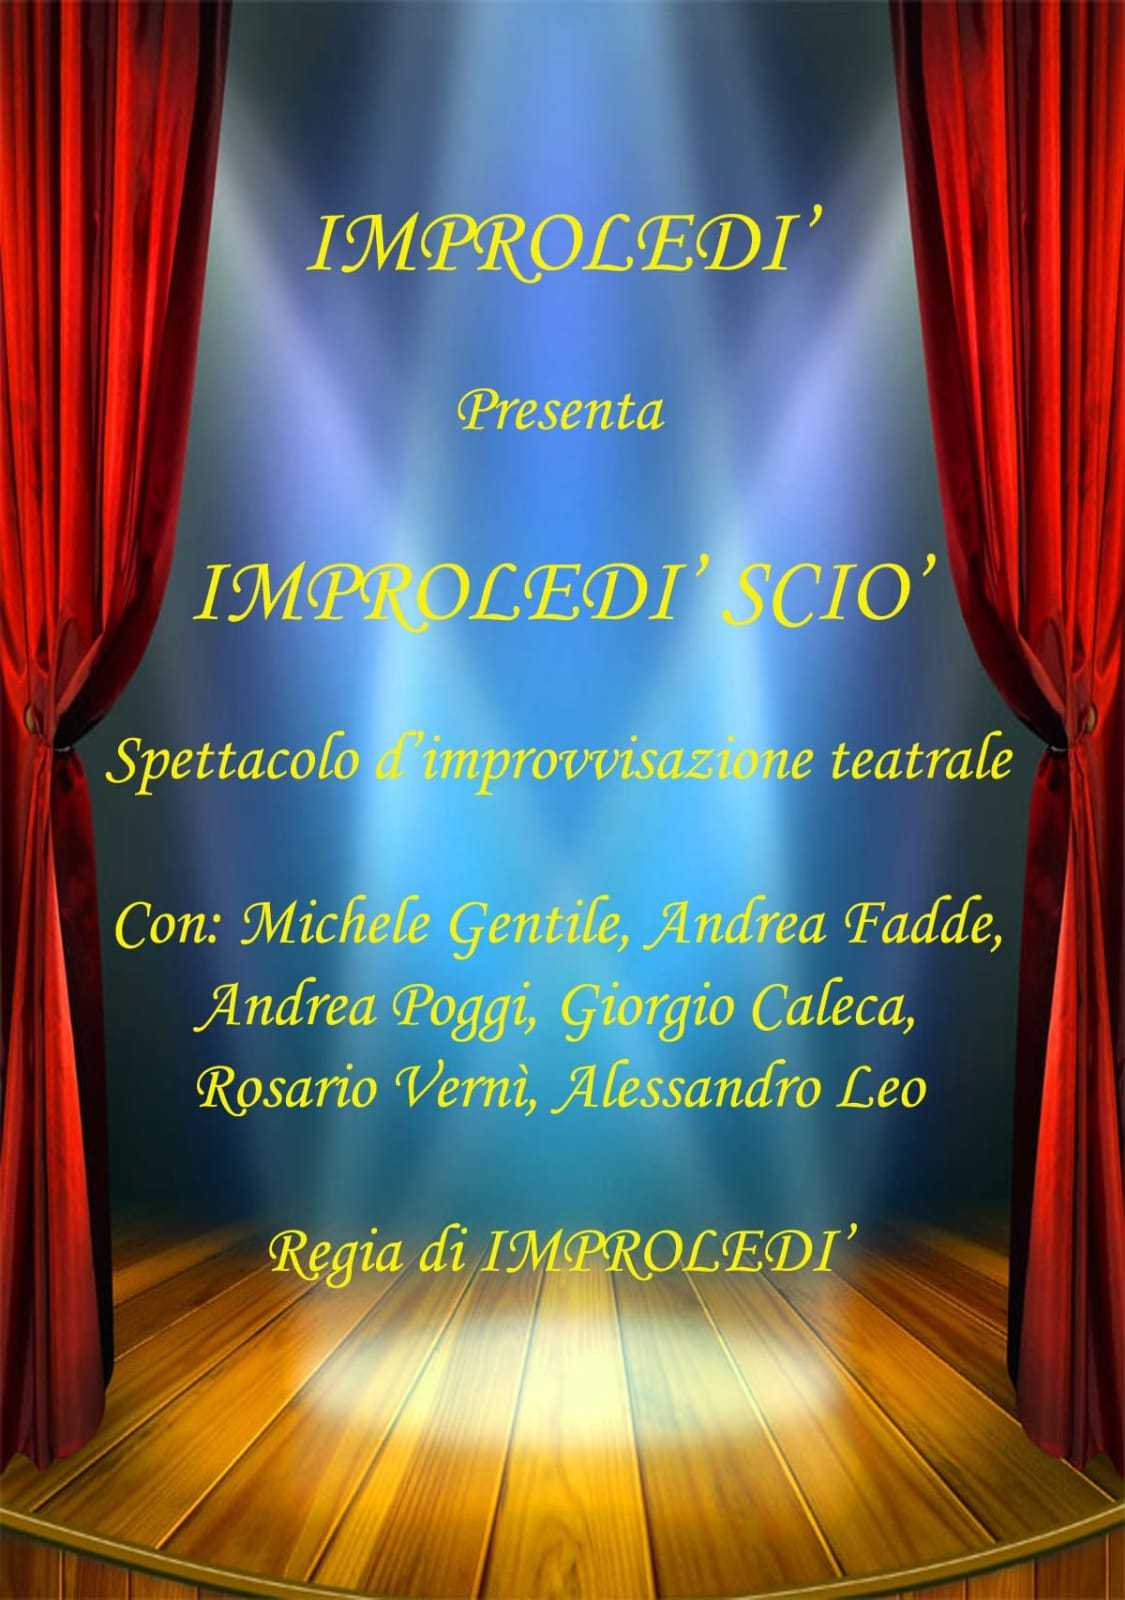
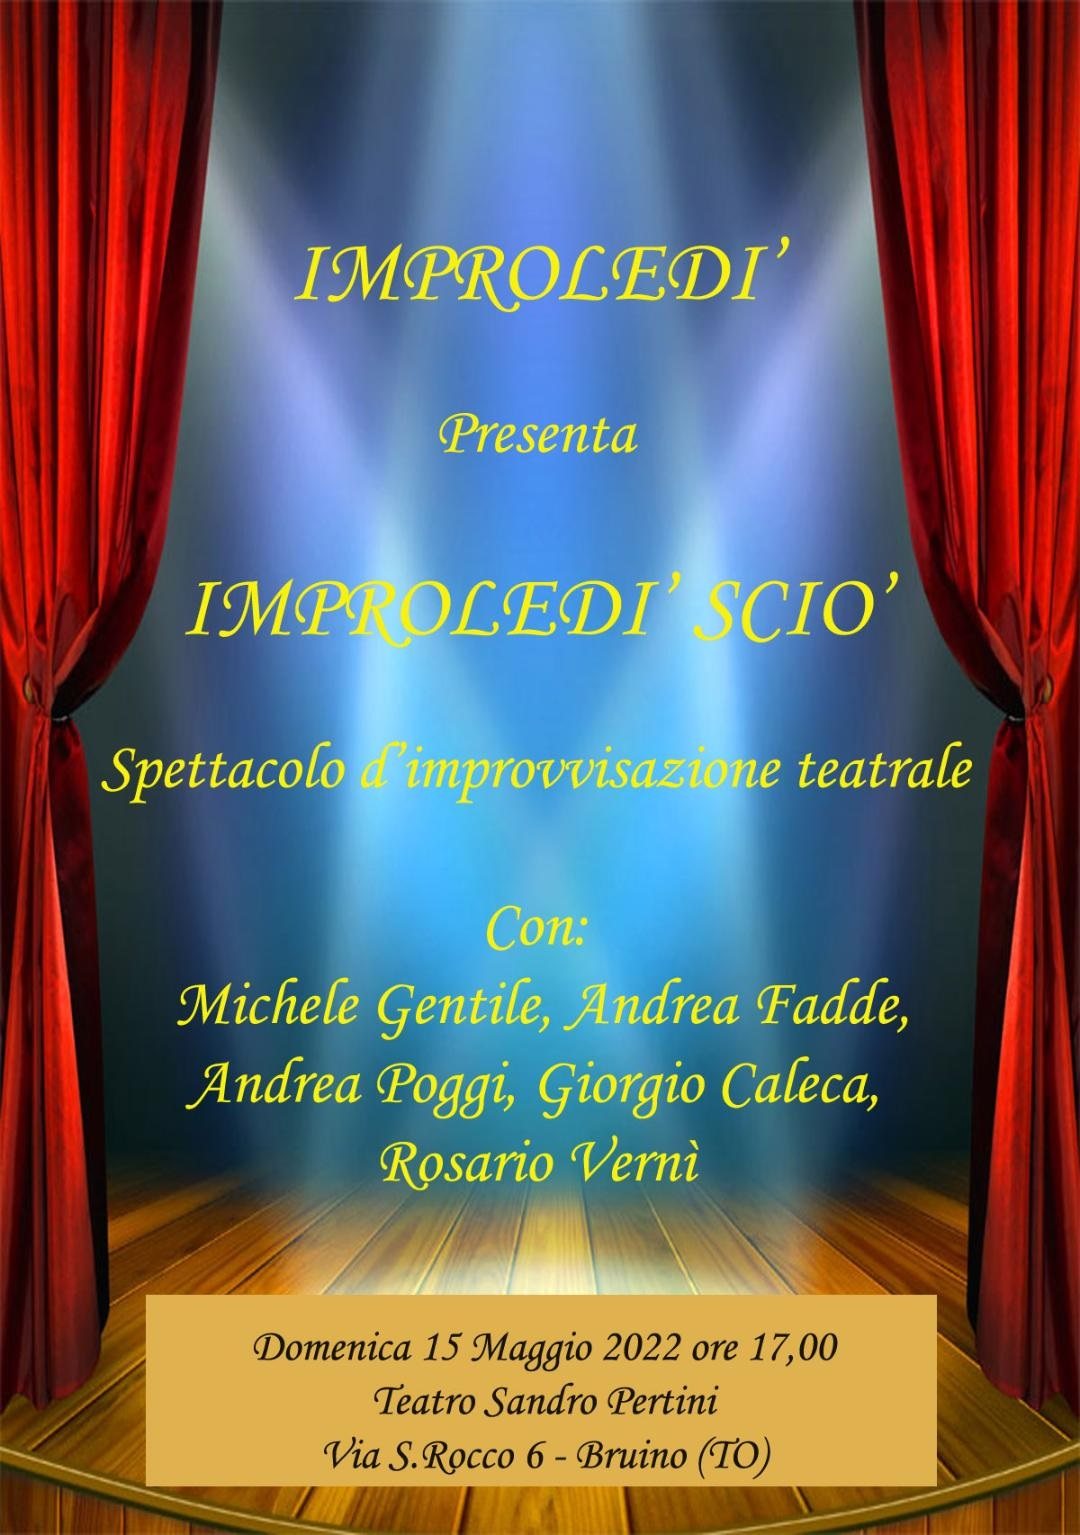
NuovaData15052022
Aggiornata data del 15/5/2022

diff --git a/index.htm b/index.htm
@@ -125,7 +125,7 @@
                                 <img src="img/ultimissime.fw.png" alt="ultimissime"/></a>
         </div>
         <div class="dataspettacolo">
-            <a href="#appuntamenti" title="il prossimo spettacolo">20-02-2022: Improledi' Scio'</a>
+            <a href="#appuntamenti" title="il prossimo spettacolo">15-05-2022: Improledi' Scio'</a>
         </div>
 		<!--
 		<div class="ultimissime">
@@ -503,7 +503,7 @@
                 <!-- 19-02-2022 -->
                 <div>
                     <span style="color: #31859b; font-family: ProssimaData; font-size: 40px; font-weight: bold;">
-                        20-02-2022
+                        15-05-2022
                     </span>
                     <div style="float: left; vertical-align: middle; padding: 42px;">
                         <img src="img/spettacoli/improledi_scio_19022022_small.jpg" alt="Improledi' Scio'" />
